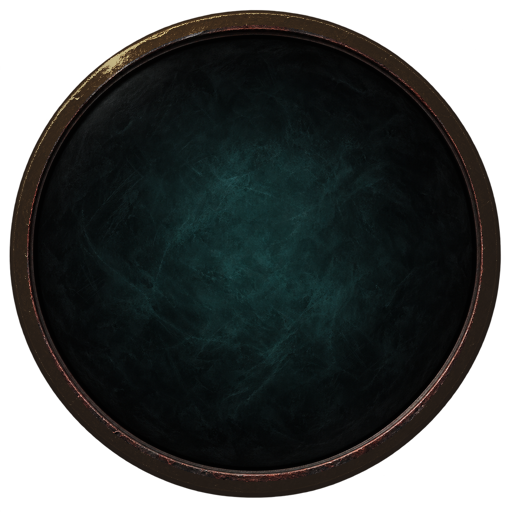
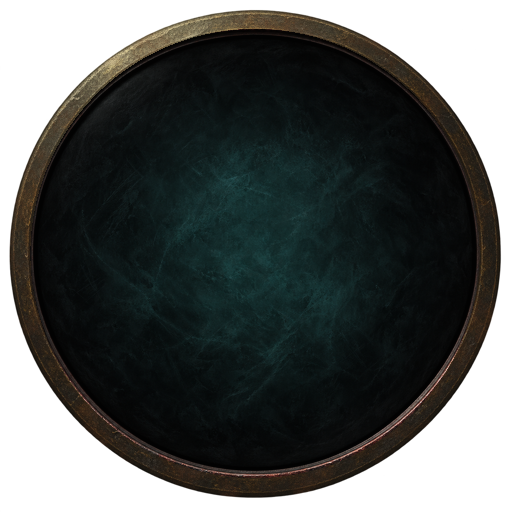
Rusted socket: six seed variants baked from the tuned rust parameters, one per button (portal uses variant 5)

diff --git a/dm/ios/Sources/DmTouchOverlay.m b/dm/ios/Sources/DmTouchOverlay.m
@@ -56,7 +56,7 @@ static dm_ta_glyph shown_glyph(const dm_tg_snapshot *n, uint64_t button, uint64_
     return g;
 }
 @implementation DmTouchOverlay {
-    UIImage *_circle, *_socket, *_map, *_menu, *_nativeAtlases[DM_TA_ATLASES], *_silAtlases[DM_TA_ATLASES];   // _sil：同帧位的银色剪影图集（gen_hud_v4.py） | _sil: silver silhouette atlas at the same frame positions (gen_hud_v4.py)
+    UIImage *_circle, *_socketV[6], *_socket, *_map, *_menu, *_nativeAtlases[DM_TA_ATLASES], *_silAtlases[DM_TA_ATLASES];   // _sil：同帧位的银色剪影图集（gen_hud_v4.py） | _sil: silver silhouette atlas at the same frame positions (gen_hud_v4.py)
     NSMutableDictionary<NSString *,UIImage *> *_glyphFrames, *_buttonFrames;
     dm_ta_glyph _nativeVisualGlyphs[5];
 }
@@ -67,6 +67,11 @@ static dm_ta_glyph shown_glyph(const dm_tg_snapshot *n, uint64_t button, uint64_
     // 通用按钮材质为新生成的美术，技能图案仍来自玩家自己的游戏文件。
     // The generic socket texture is newly generated artwork; skill glyphs still come from the player's own game files.
     _socket=[UIImage imageNamed:@"dm_mobile_socket"];
+    // 本地改动：六个按钮用不同随机种子的锈迹贴图（dm_mobile_socket + _1.._5），按控件序号轮换。
+    // Local change: six rusted socket variants (different noise seeds), picked by the control index.
+    _socketV[0]=_socket;
+    for(int vi=1;vi<6;vi++) { _socketV[vi]=[UIImage imageNamed:[NSString stringWithFormat:@"dm_mobile_socket_%d",vi]];
+        if(!_socketV[vi]) _socketV[vi]=_socket; }
     _map=[UIImage imageNamed:@"dm_native_map"]; _menu=[UIImage imageNamed:@"dm_native_menu"];
     _glyphFrames=[NSMutableDictionary dictionary]; _buttonFrames=[NSMutableDictionary dictionary];
     for(int i=0;i<DM_TA_ATLASES;i++) _nativeAtlases[i]=[UIImage imageNamed:[NSString stringWithUTF8String:dm_ta_atlases[i].asset]];
@@ -127,12 +132,12 @@ static dm_ta_glyph shown_glyph(const dm_tg_snapshot *n, uint64_t button, uint64_
     }
     return image;
 }
-- (void)drawButton:(CGRect)rect held:(BOOL)held empty:(BOOL)empty primary:(BOOL)primary {
-    NSString *key=[NSString stringWithFormat:@"skill:%d:%d:%d",held,empty,primary];
+- (void)drawButton:(CGRect)rect held:(BOOL)held empty:(BOOL)empty primary:(BOOL)primary variant:(int)variant {
+    NSString *key=[NSString stringWithFormat:@"skill:%d:%d:%d:%d",held,empty,primary,variant%6];
     UIImage *image=[self controlArt:key size:rect.size draw:^(CGContextRef c){
         CGRect r=(CGRect){CGPointZero,rect.size};
-        if(self->_socket && !empty) {
-            [self->_socket drawInRect:r];dm_socket_neutralize(c,r);
+        UIImage *sock=self->_socketV[variant%6] ? self->_socketV[variant%6] : self->_socket;   // 每个按钮换一个锈迹种子 | per-button rust seed
+        if(sock && !empty) {
             if(held) dm_button_highlight(c,r);
         } else dm_button_draw(c,r,held,empty,primary);
     }];
@@ -272,8 +277,8 @@ static void v4text(NSString *str, NSDictionary *glyphs, CGFloat x, CGFloat basel
         }
         if(!self.navigationMode && i==DM_TC_MAP && s->map_cancel_active) {icon=nil;showCaption=YES;}
         BOOL emptySkill=skillKey && !icon && (!showCaption || i==DM_TC_MAIN);
-        if(skillKey) [self drawButton:b held:held empty:emptySkill primary:i==DM_TC_MAIN];
-        if(!self.navigationMode && i==DM_TC_PORTAL) [self drawButton:b held:held empty:NO primary:NO];   // 回城钮圆底 | portal circle
+        if(skillKey) [self drawButton:b held:held empty:emptySkill primary:i==DM_TC_MAIN variant:(int)i];
+        if(!self.navigationMode && i==DM_TC_PORTAL) [self drawButton:b held:held empty:NO primary:NO variant:5];   // 回城钮圆底 | portal circle
         if(emptySkill) continue;   // 空槽保留绑定入口，细边框和刻印由背景绘制 | Empty slots keep their binding entry; the background draws their thin rim and engraving
         if(skillKey) {   // 技能美术居中；无图的未知槽保留原标签回退 | Center skill artwork; unknown slots with no image keep the existing label fallback
             BOOL bare=icon!=nil;   // 有图标的技能钮不写字（最大的钮是「主技能 / 交互」、可绑任意技能，钮上只画所绑技能的图标，不写「攻击」）：图标放大并居中。取不到图标时主钮仍落回「攻击」字样 | skill buttons that have an icon carry no text (the largest button is "main skill / interact" and can be bound to any skill, so the button draws only the bound skill's icon and does not say 「攻击」(Attack)): the icon is enlarged and centered. When no icon can be obtained the main button still falls back to the 「攻击」(Attack) text | skill buttons that have an icon carry no text (the largest button is "main skill / interact" and can be bound to any skill, so it draws only the bound skill's icon and no Attack label): the icon is enlarged and centered. When no icon can be obtained the main button still falls back to the Attack label
